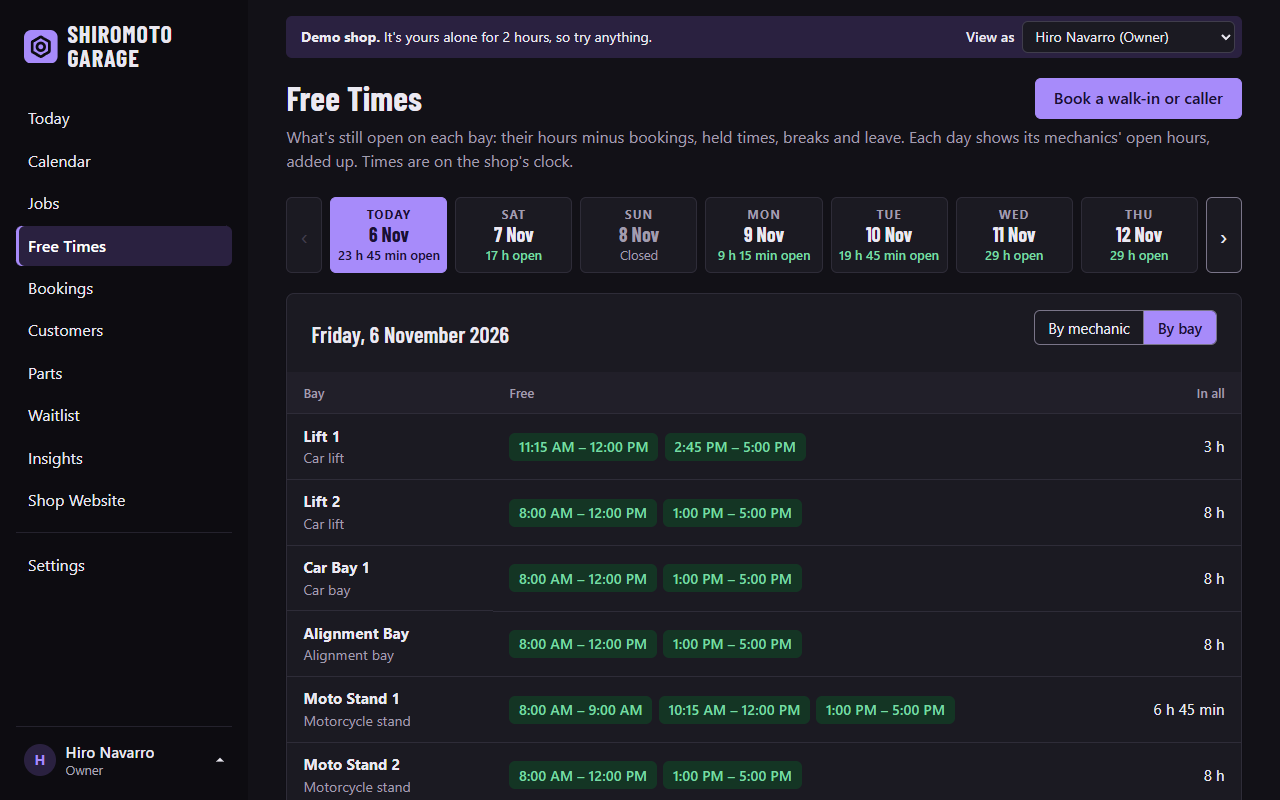
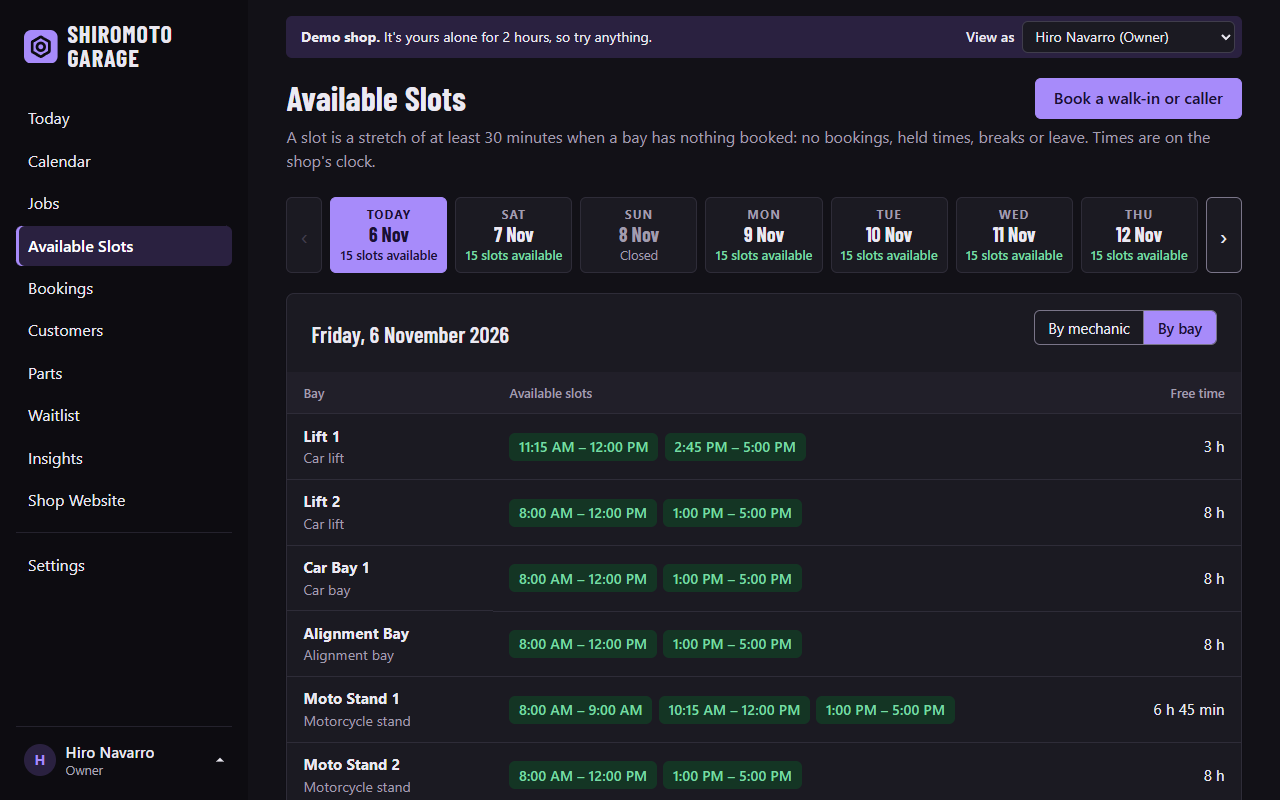
Available Slots: count slots per day, and new styles reach the phone app
- Free Times is now Available Slots (the page title and the menu). Each day
  in the strip says how many slots it has ("9 slots available"), counted the
  way the table lists them, instead of open hours added up. A slot is a free
  stretch of at least 30 minutes, the shortest service
  (slots.SHORTEST_SLOT).
- The service worker served /static/ files from its kept copy first, so a
  browser that had the app's copy kept showing old CSS (the new page's
  chips showed as a bullet list). Pages and /static/ now come from the
  network first, with the kept copy only when offline. VERSION is
  shiromoto-v2, which clears the old copies.
- README, PLAN.md, AGENTS.md and the pictures updated.

277 tests on SQLite.

diff --git a/shiromoto/templates/desk/free_times.html b/shiromoto/templates/desk/free_times.html
@@ -1,21 +1,21 @@
 {% extends "base.html" %}
-{% block title %}Free Times - {{ shop.name }}{% endblock %}
+{% block title %}Available Slots - {{ shop.name }}{% endblock %}
 {% block content %}
   <div class="page-head">
-    <h1>Free Times</h1>
+    <h1>Available Slots</h1>
     {% if can_book %}<a class="button" href="{{ url_for('book.index', day=day.isoformat()) }}">Book a walk-in or caller</a>{% endif %}
-    <p class="page-sub">What's still open on each {{ 'mechanic' if by == 'mechanic' else 'bay' }}: their hours minus bookings, held times, breaks and leave. Each day shows its mechanics' open hours, added up. Times are on the shop's clock.</p>
+    <p class="page-sub">A slot is a stretch of at least 30 minutes when a {{ 'mechanic' if by == 'mechanic' else 'bay' }} has nothing booked: no bookings, held times, breaks or leave. Times are on the shop's clock.</p>
   </div>
 
   <nav class="day-strip" aria-label="Days">
     {% if earlier %}<a class="day-arrow" href="{{ url_for('desk.free_times', day=earlier.isoformat(), by=by) }}" aria-label="Earlier days">&lsaquo;</a>{% else %}<span class="day-arrow is-off" aria-hidden="true">&lsaquo;</span>{% endif %}
     <ul>
-      {% for d, closed, minutes in strip %}
+      {% for d, closed, count in strip %}
         <li>
-          <a class="day-pill{{ ' is-picked' if d == day else '' }}{{ ' is-full' if not minutes else '' }}" href="{{ url_for('desk.free_times', day=d.isoformat(), by=by, **{'from': strip_start.isoformat()}) }}"{% if d == day %} aria-current="date"{% endif %}>
+          <a class="day-pill{{ ' is-picked' if d == day else '' }}{{ ' is-full' if not count else '' }}" href="{{ url_for('desk.free_times', day=d.isoformat(), by=by, **{'from': strip_start.isoformat()}) }}"{% if d == day %} aria-current="date"{% endif %}>
             <span class="day-name">{{ 'Today' if d == today else d.strftime('%a') }}</span>
             <span class="day-number">{{ d.day }} {{ d.strftime('%b') }}</span>
-            <span class="day-count">{% if closed %}Closed{% elif minutes %}{{ minutes|duration }}<span class="day-count-more"> open</span>{% else %}Full{% endif %}</span>
+            <span class="day-count">{% if closed %}Closed{% elif count %}{{ count }} slot{{ 's' if count != 1 }}<span class="day-count-more"> available</span>{% else %}Fully booked{% endif %}</span>
           </a>
         </li>
       {% endfor %}
@@ -38,7 +38,7 @@
     {% else %}
       <div class="table-scroll">
         <table class="table free-table">
-          <thead><tr><th scope="col">{{ 'Mechanic' if by == 'mechanic' else 'Bay' }}</th><th scope="col">Free</th><th scope="col" class="num">In all</th></tr></thead>
+          <thead><tr><th scope="col">{{ 'Mechanic' if by == 'mechanic' else 'Bay' }}</th><th scope="col">Available slots</th><th scope="col" class="num">Free time</th></tr></thead>
           <tbody>
             {% for row, windows in rows %}
               <tr class="{{ 'is-off' if not windows else '' }}">

diff --git a/shiromoto/static/sw.js b/shiromoto/static/sw.js
@@ -1,10 +1,10 @@
 // The service worker: what makes ShiroMoto Garage work like an app on a phone.
 // - It keeps a copy of the look (CSS, scripts, fonts, icons) and an offline page.
-// - Pages always come from the network first (bookings change all the time); only
-//   when there is no network does the offline page show.
+// - Pages AND the look come from the network first, so a new style or script shows
+//   at once. The kept copy is only used when there is no network.
 // - It shows push notices, and opens the right page when one is tapped.
-// Change VERSION when a cached file changes, so phones fetch the new one.
-const VERSION = "shiromoto-v1";
+// Changing VERSION clears the kept copies on every phone.
+const VERSION = "shiromoto-v2";
 const KEEP = [
   "/offline",
   "/static/style.css",
@@ -36,7 +36,17 @@ self.addEventListener("fetch", (event) => {
     return;
   }
   if (new URL(request.url).pathname.startsWith("/static/")) {
-    event.respondWith(caches.match(request).then((kept) => kept || fetch(request)));
+    event.respondWith(
+      fetch(request)
+        .then((fresh) => {
+          if (fresh.ok) {
+            const copy = fresh.clone();
+            caches.open(VERSION).then((cache) => cache.put(request, copy));
+          }
+          return fresh;
+        })
+        .catch(() => caches.match(request)),
+    );
   }
 });
 

diff --git a/shiromoto/templates/_sidebar.html b/shiromoto/templates/_sidebar.html
@@ -18,7 +18,7 @@
         {{ link('desk.today', 'Today', request.endpoint == 'desk.today') }}
         {{ link('desk.calendar', 'Calendar', request.endpoint == 'desk.calendar') }}
         {{ link('jobs.board', 'Jobs', request.endpoint in ('jobs.board', 'jobs.show')) }}
-        {{ link('desk.free_times', 'Free Times', request.endpoint == 'desk.free_times' or section == 'book') }}
+        {{ link('desk.free_times', 'Available Slots', request.endpoint == 'desk.free_times' or section == 'book') }}
         {% if g.user.role in ('owner', 'advisor') %}
           {{ link('desk.bookings', 'Bookings', request.endpoint == 'desk.bookings' or section == 'bookings') }}
           {{ link('desk.customers', 'Customers', request.endpoint in ('desk.customers', 'desk.customer', 'jobs.vehicle')) }}

diff --git a/shiromoto/views/desk.py b/shiromoto/views/desk.py
@@ -116,7 +116,7 @@ def calendar():
     return render_template("desk/calendar.html", **context)
 
 
-# ---------- Free Times: only what's left of each day ----------
+# ---------- Available Slots: only what's left of each day ----------
 
 FREE_DAYS = 7
 
@@ -124,8 +124,8 @@ FREE_DAYS = 7
 @bp.get("/free")
 @staff_required
 def free_times():
-    """Each mechanic's and each bay's open time that isn't booked or held, for a
-    day: no vehicle or services to choose, just what's free."""
+    """Each mechanic's (or each bay's) open stretches that aren't booked or held, for a
+    day: no vehicle or services to choose. Each stretch is one available slot."""
     from .. import slots
     s = db.session()
     shop = shops.current()
@@ -145,17 +145,17 @@ def free_times():
         crew, bays = slots.free_time(picture, earliest)
         return picture, crew, bays
 
+    by = chosen_by()
     strip = []
     for n in range(FREE_DAYS):
         d = strip_start + timedelta(days=n)
         if d > last:
             break
-        picture, crew, _ = free_on(d)
-        # Every mechanic's open time, added up: how busy the day still is.
-        open_minutes = sum(end - start for _, windows in crew for start, end in windows)
-        strip.append((d, picture.closed, open_minutes))
+        picture, crew, bays = free_on(d)
+        # How many slots the day has, counted the way the table below lists them.
+        count = sum(len(windows) for _, windows in (crew if by == "mechanic" else bays))
+        strip.append((d, picture.closed, count))
     picture, crew, bays = free_on(day)
-    by = chosen_by()
     return render_template(
         "desk/free_times.html", day=day, today=today, strip=strip, picture=picture, by=by,
         rows=crew if by == "mechanic" else bays, can_book=g.user.role in (OWNER, ADVISOR),

diff --git a/tests/test_booking_pages.py b/tests/test_booking_pages.py
@@ -331,11 +331,13 @@ def test_a_customer_starts_at_my_garage(app, shop_id):
     assert "Next visit" in customer.get("/garage").get_data(as_text=True)
 
 
-def test_free_times_lists_only_what_is_open(app, shop_id, day):
+def test_available_slots_lists_only_what_is_open(app, shop_id, day):
     owner = log_in_as(app.test_client(), make_user(app, shop_id, "hiro@shop.example", "owner", "Hiro"))
     page = owner.get(f"/desk/free?day={day}&by=mechanic").get_data(as_text=True)
-    # Jun works 8:00 to 5:00 with lunch at 12:00: two free stretches, nothing to choose first.
-    assert "Jun" in page and "8:00 AM – 12:00 PM" in page and "1:00 PM – 5:00 PM" in page and "8 h" in page
+    # Jun works 8:00 to 5:00 with lunch at 12:00: two slots, and nothing to choose first.
+    assert "Available Slots" in page and "Jun" in page and "8 h" in page
+    assert "8:00 AM – 12:00 PM" in page and "1:00 PM – 5:00 PM" in page
+    assert '2 slots<span class="day-count-more"> available</span>' in page
     assert "Vehicle" not in page and "Choose" not in page
     book(browser(app), app, shop_id, day, start=8 * H)  # an oil change, 8:00 to 9:00
     page = owner.get(f"/desk/free?day={day}&by=bay").get_data(as_text=True)

diff --git a/shiromoto/slots.py b/shiromoto/slots.py
@@ -247,12 +247,16 @@ def load_day(s, shop, day, busy=None):
     return DayPicture(day=day, closed=closed, opens=opens, closes=closes, crew=crew, bays=bays, windows=base)
 
 
+SHORTEST_SLOT = 30  # minutes: the shortest service, so a shorter gap isn't worth showing
+
+
 def free_time(picture, earliest=0):
     """What's left of one day, for the staff's Free Times page: for each mechanic and
-    each bay, its open time minus what is booked or held, from `earliest` on.
+    each bay, its open time minus what is booked or held, from `earliest` on. Each
+    stretch is one "slot", at least SHORTEST_SLOT minutes long.
     Returns (crew rows, bay rows), each a list of (Crew or Place, [(start, end), ...])."""
     def left(windows, busy):
-        return [w for w in subtract(intersect(windows, earliest, 24 * 60), busy) if w[1] - w[0] >= STEP]
+        return [w for w in subtract(intersect(windows, earliest, 24 * 60), busy) if w[1] - w[0] >= SHORTEST_SLOT]
     crew = [(person, [] if person.off else left(person.windows, person.busy)) for person in picture.crew]
     bays = [(bay, left(picture.windows, bay.busy)) for bay in picture.bays]
     return crew, bays

diff --git a/tests/test_book.py b/tests/test_book.py
@@ -64,7 +64,7 @@ def test_staff_see_who_and_which_bay(app, shop_id, owner_id):
         if "Free mechanics" in page:
             found = True
             break
-    assert found and "Jun dela Cruz" in page and "Lift 1" in page and "Free Times" in page
+    assert found and "Jun dela Cruz" in page and "Lift 1" in page and "Available Slots" in page
     assert 'class="sidebar"' in page
 
 

diff --git a/README.md b/README.md
@@ -66,7 +66,7 @@ Car PMS (3 h 15 min with clean-up), starting 10:00:
 
 **The Book page** (customers): choose the vehicle, then the services, then a day. The strip shows how many times each day has. Every step is in the web address, so it can be shared.
 
-**Free Times** (staff, in the menu) is not a booking page. It shows only what's still open: for each mechanic (or each bay), the stretches of the day that aren't booked or held, like "8:00 AM – 12:00 PM", and how much that is in all. Each day in the strip shows its mechanics' open hours, added up. To book from it, press **Book a walk-in or caller**. That page also shows which mechanics and bays each start time would use.
+**Available Slots** (staff, in the menu) is not a booking page. It lists only what's still open: for each mechanic (or each bay), its slots, like "8:00 AM – 12:00 PM", and how much free time that is. A slot is a stretch of at least 30 minutes (the shortest service) with no booking, held time, break or leave. Each day in the strip says how many slots it has, like "9 slots available". To book from it, press **Book a walk-in or caller**. That page also shows which mechanics and bays each start time would use.
 
 ## How Double Booking Is Stopped
 
@@ -106,7 +106,7 @@ The tests do this for real: 10 threads press the same time at once. With one lif
 - The customer's menu is just **My Garage, Book, Services, Settings**. The shop's hours are on the Services page, so they don't need a button of their own.
 
 **For staff:**
-- **Free Times** shows what's still open, and **Book a walk-in or caller** books from it.
+- **Available Slots** shows what's still open, and **Book a walk-in or caller** books from it.
 - **Today** lists the day's bookings. A mechanic sees their own jobs.
 - Staff can open any booking, and can move or cancel it at any time. They also answer customers' move requests.
 
@@ -123,7 +123,7 @@ The tests do this for real: 10 threads press the same time at once. With one lif
 - **Bookings:** every booking. Search by booking number, name, phone (written any way) or plate, and filter by status, who booked and dates.
 - **Customers:** everyone who booked, with their vehicles, visits, no-shows and the shop's private notes.
 - **A booking's page** keeps everything in one card: the details, then Add to calendar and Move, then Check in and No-show for the desk, then **Cancel this booking** (folded away until you need it).
-- Mechanics see Today (their own jobs), the Calendar, Jobs and Free Times. The owner and service advisors see everything.
+- Mechanics see Today (their own jobs), the Calendar, Jobs and Available Slots. The owner and service advisors see everything.
 
 ## Jobs, Estimates and Parts
 
@@ -237,8 +237,8 @@ For the owner, over the last 7, 30 or 90 days:
 |---|---|
 | ![Today in dark mode](docs/screenshots/today-dark.png) Today, dark mode | ![Today, as a mechanic](docs/screenshots/today-mechanic.png) Today, as a mechanic |
 | ![The calendar, one day by bay](docs/screenshots/calendar.png) Calendar: a day, by bay | ![The calendar, one week](docs/screenshots/calendar-week.png) Calendar: a week |
-| ![The calendar by mechanic, in dark mode](docs/screenshots/calendar-dark.png) By mechanic, dark mode | ![Free Times for staff](docs/screenshots/free-times.png) Free Times, for staff |
-| ![Free Times by bay, in dark mode](docs/screenshots/free-times-dark.png) Free Times by bay, dark mode | ![A booking, as staff see it](docs/screenshots/booking-staff.png) A booking, as staff see it |
+| ![The calendar by mechanic, in dark mode](docs/screenshots/calendar-dark.png) By mechanic, dark mode | ![Available Slots for staff](docs/screenshots/free-times.png) Available Slots, for staff |
+| ![Available Slots by bay, in dark mode](docs/screenshots/free-times-dark.png) Available Slots by bay, dark mode | ![A booking, as staff see it](docs/screenshots/booking-staff.png) A booking, as staff see it |
 | ![Booking for a walk-in or caller](docs/screenshots/book-staff.png) Booking for a walk-in or caller | |
 | ![Every booking, with search](docs/screenshots/bookings.png) Bookings | ![A customer's page](docs/screenshots/customer.png) A customer |
 | ![The Jobs board](docs/screenshots/jobs.png) Jobs board | ![A job, with its estimate](docs/screenshots/job.png) A job and its estimate |

diff --git a/AGENTS.md b/AGENTS.md
@@ -75,11 +75,11 @@ Python 3.13 is at `%LOCALAPPDATA%\Programs\Python\Python313\python.exe`. Use the
   - Links in notices are `notices.booking_link` (itsdangerous, 45 days). `open_booking` accepts `?s=`.
   - Queue notices after the action commits, with `notices.safely(...)`, so a notice problem never undoes a booking.
 - **The timer (`tick.py`):** `POST /tasks/tick` with `X-Tick-Key` (CSRF-free; 404 without `TICK_KEY`), or `flask tick`. GitHub Actions calls it every 15 min (`.github/workflows/tick.yml`, secrets `TICK_URL` and `TICK_KEY`).
-- **Start pages:** `/` sends a logged-in customer to `/garage` (and anyone to their home with `?from=app`, the phone app's start). The shop's page is `public.shop_page` at `/shop`. **Free Times** is `desk.free_times` (`/desk/free`), built from `slots.free_time` (open windows minus busy cells). The staff booking flow is still `/book` ("Book for a Customer").
+- **Start pages:** `/` sends a logged-in customer to `/garage` (and anyone to their home with `?from=app`, the phone app's start). The shop's page is `public.shop_page` at `/shop`. **Available Slots** is `desk.free_times` (`/desk/free`), built from `slots.free_time`: open windows minus busy cells, each at least `slots.SHORTEST_SLOT` (30 min) long. The staff booking flow is still `/book` ("Book for a Customer").
 - **Move requests (`moves.py`):** a customer's POST to `/b/<ref>/move/confirm` asks (`moves.ask`); staff's moves at once (`booking.move`). The asked-for time is a `Hold` (token in `appointments.move_hold_token`, up to 24 h). `approve` turns the hold's cells into the booking's in one transaction. Answers are claimed with `UPDATE ... WHERE move_status = 'asked'`. `booking.cancel` and `booking.move` call `moves.drop_request`. The timer runs `moves.expire`. The session doesn't expire objects on commit, so refresh after a Core UPDATE.
 - **Other Service (`quotes.py`):** a `Service` with `is_other`. The customer's text travels as `?other=` through the Book page, then in `holds.request_text` and `waitlist.request_text`, onto `appointments.request_text`. `quote_status` goes to_price → priced → accepted or declined. Its line's `price_from` stays 0 until accepted. Answers use `UPDATE ... WHERE quote_status = 'priced' AND quote_price = :shown`. `decline` removes the line and shortens the booking (or cancels it if nothing is left) in one transaction.
 - **Waitlist (`waitlist.py`):** entries are claimed with `UPDATE ... WHERE status = 'waiting'`, then the offer is a 30-minute `booking.hold(minutes=...)`. `expire` gives unused offers back. `booked_from_offer` runs when that hold is confirmed.
-- **Phone app:** `/sw.js` is served from the root (`views/app_pages.py`). Change `VERSION` in `static/sw.js` when a cached file changes. Icons are drawn by `docs/make_icons.py` (Pillow). `/push/subscribe` takes JSON with the `X-CSRF-Token` header (the token is also in a meta tag).
+- **Phone app:** `/sw.js` is served from the root (`views/app_pages.py`). It fetches pages and `/static/` files from the network first and keeps a copy for offline use, so a CSS change shows at once. Changing `VERSION` clears every phone's copies. Icons are drawn by `docs/make_icons.py` (Pillow). `/push/subscribe` takes JSON with the `X-CSRF-Token` header (the token is also in a meta tag).
 - **Insights (`insights.py`, owner only):** plain Python sums over the period's bookings. The tests check each number by hand (`tests/test_insights.py`).
   - Charts are SVG built from `columns()`/`rows()`: rounded data ends, a square base, 2 px gaps, one series each (no legend; the title names it), a direct label on the biggest bar, and a "Show as a table" for each. Hover tips come from `data-tip` via `setUpChartTips()`.
   - Colours: `--chart` and `--heat-1..5` (+ `--heat-ink-N`) in all three theme blocks. They were checked with the dataviz validator (bars: lightness band and 3:1; heatmap: one hue, monotone), with text contrast of 4.5:1 or more on every shade. The dark heatmap runs the other way (busier = lighter).

diff --git a/docs/PLAN.md b/docs/PLAN.md
@@ -110,7 +110,8 @@ After the stages:
   - My Garage is their dashboard and start page (`/` sends a logged-in customer there; the shop's page is also at `/shop`);
   - Today folds its two answer lists into one and leaves the floor to the Calendar;
   - a booking's desk and cancel parts live in its one card;
-  - Free Times (`/desk/free`, `slots.free_time`) lists only the open stretches.
+  - Available Slots (`/desk/free`, `slots.free_time`) lists only the open stretches of 30 minutes or more, and counts them per day;
+  - the phone app's service worker fetches styles and scripts from the network first, so a new look shows at once.
 - **Move requests** (`moves.py`, migration 0007): customers ask for a new time instead of moving the booking. The new time is held while the owner, an advisor or a mechanic decides, and approving moves the booking in one transaction.
 - **The Other Service** (`quotes.py`, migration 0006): the customer writes what they need and books a time; staff send the price; the customer confirms or declines it. The answer is a conditional UPDATE on the price the customer saw, and declining shortens or cancels the booking in the same transaction.
 
